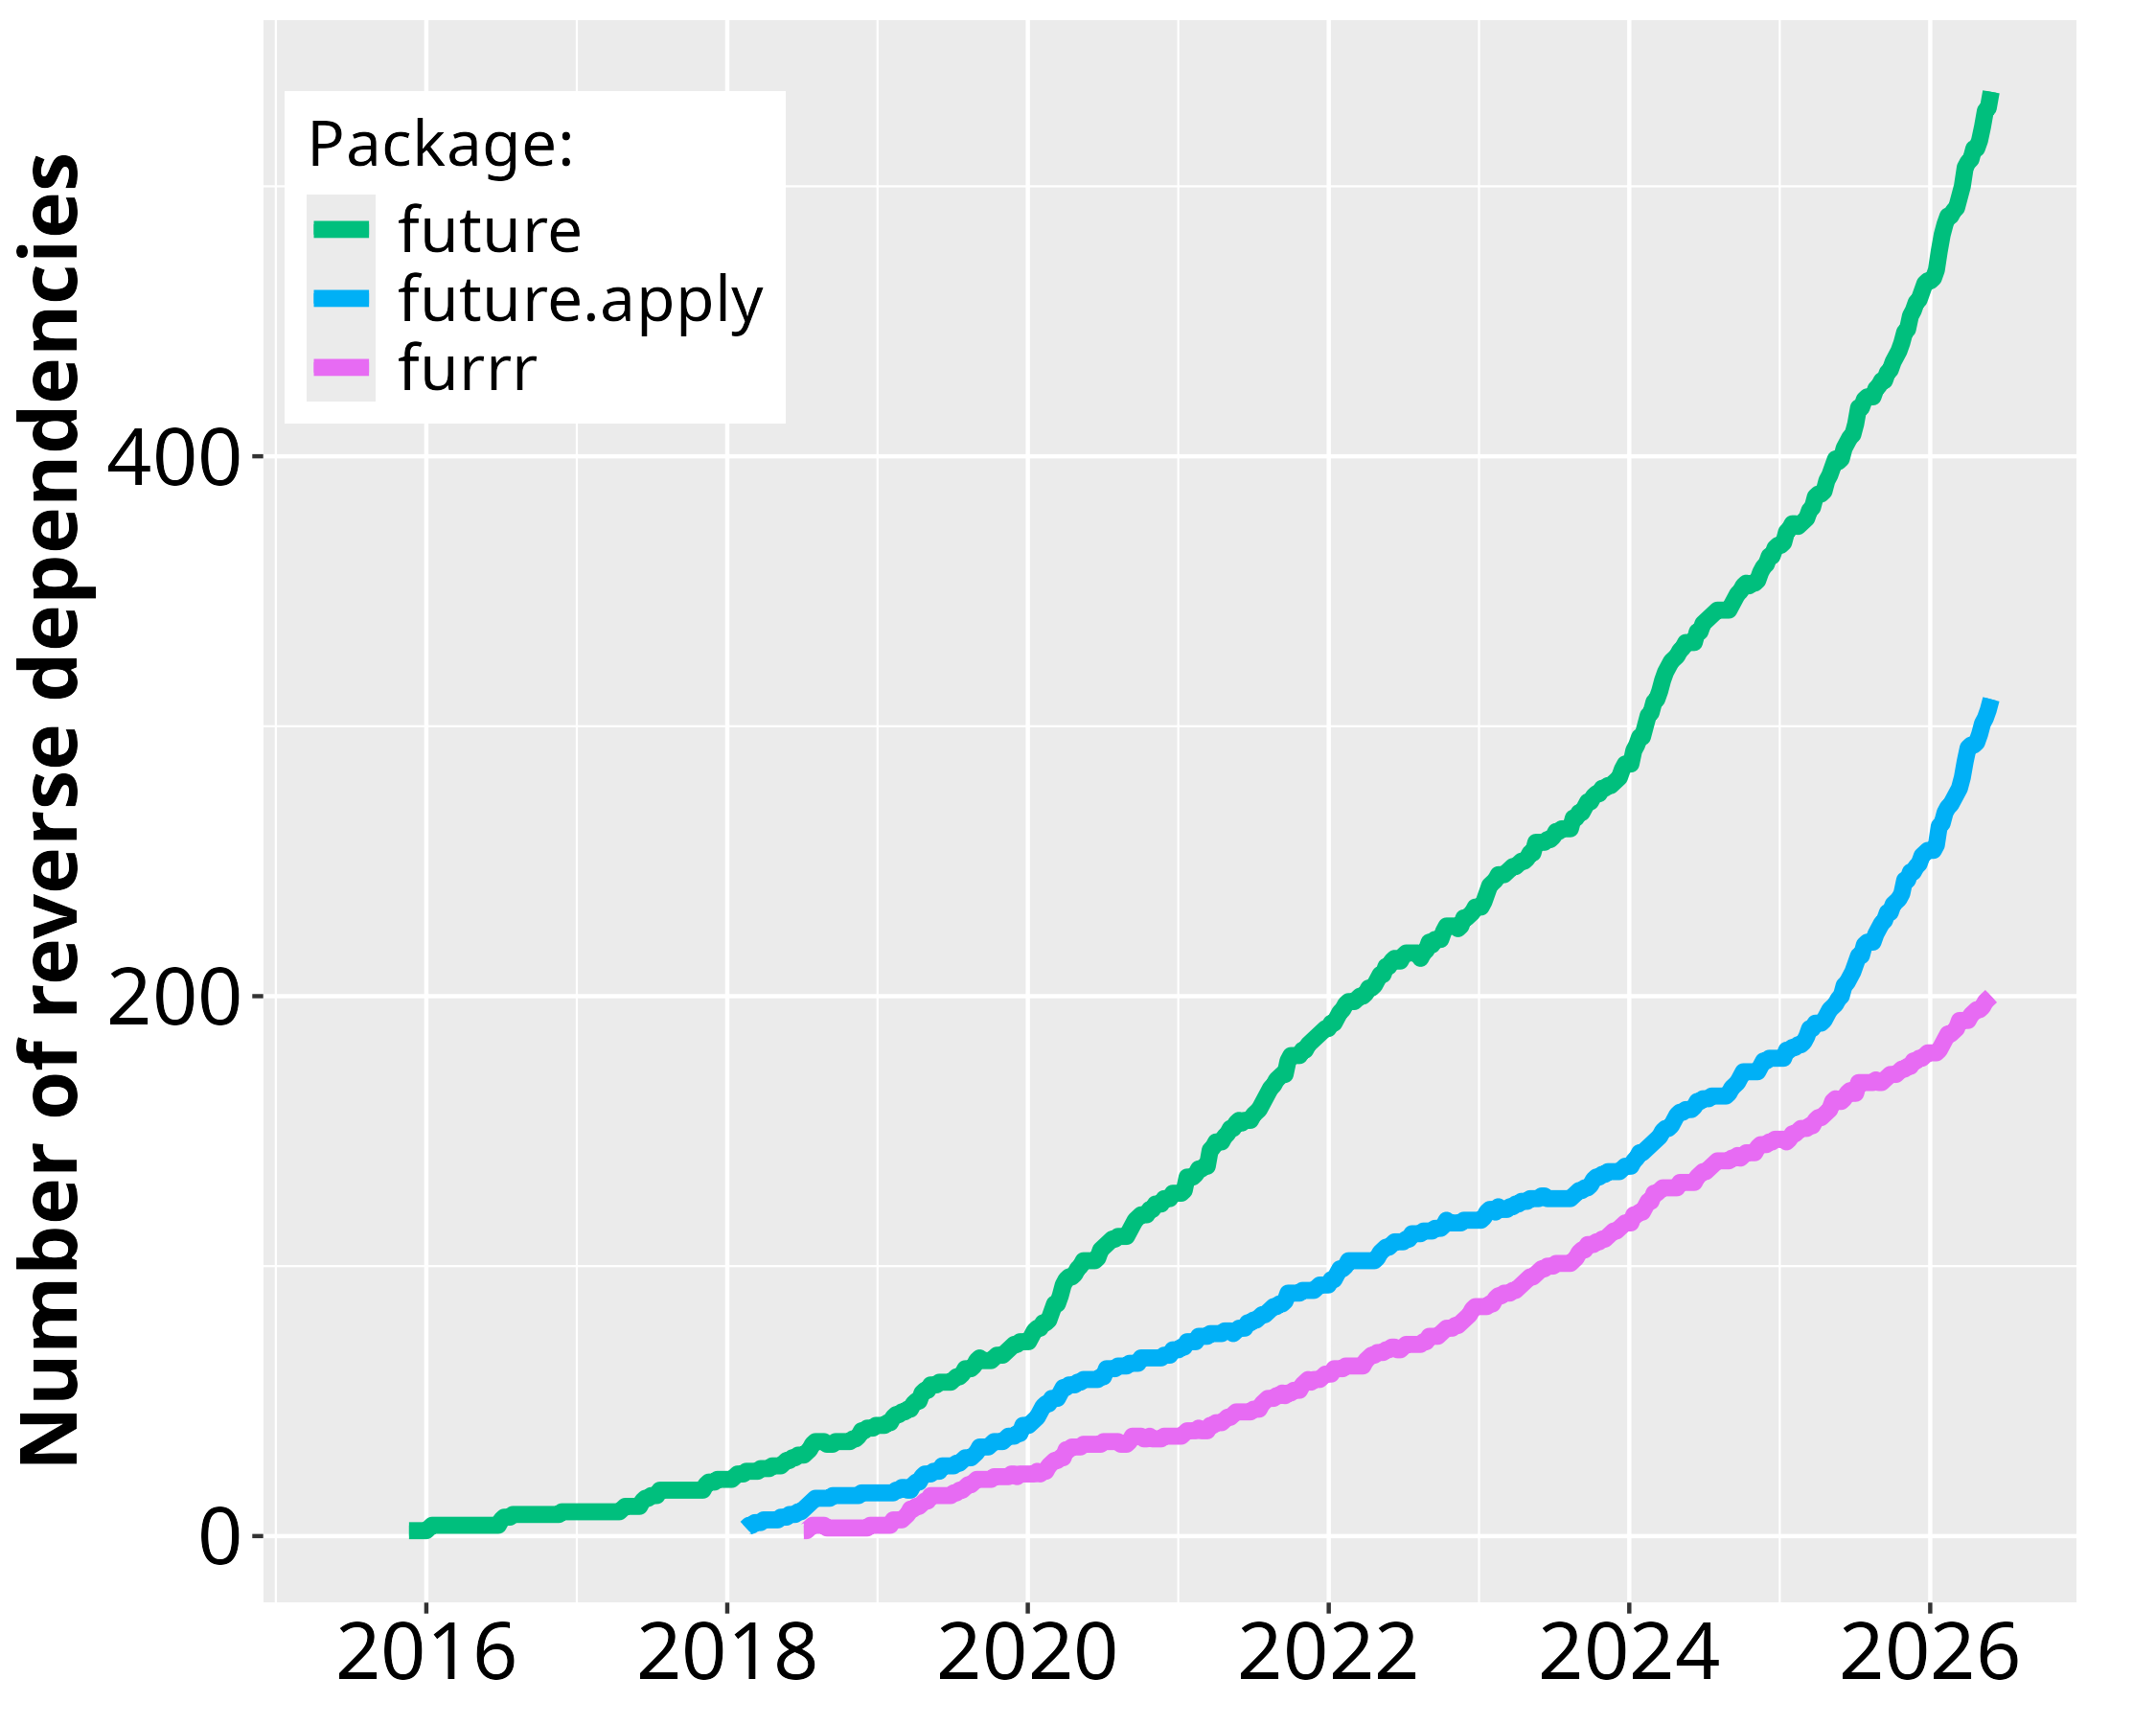
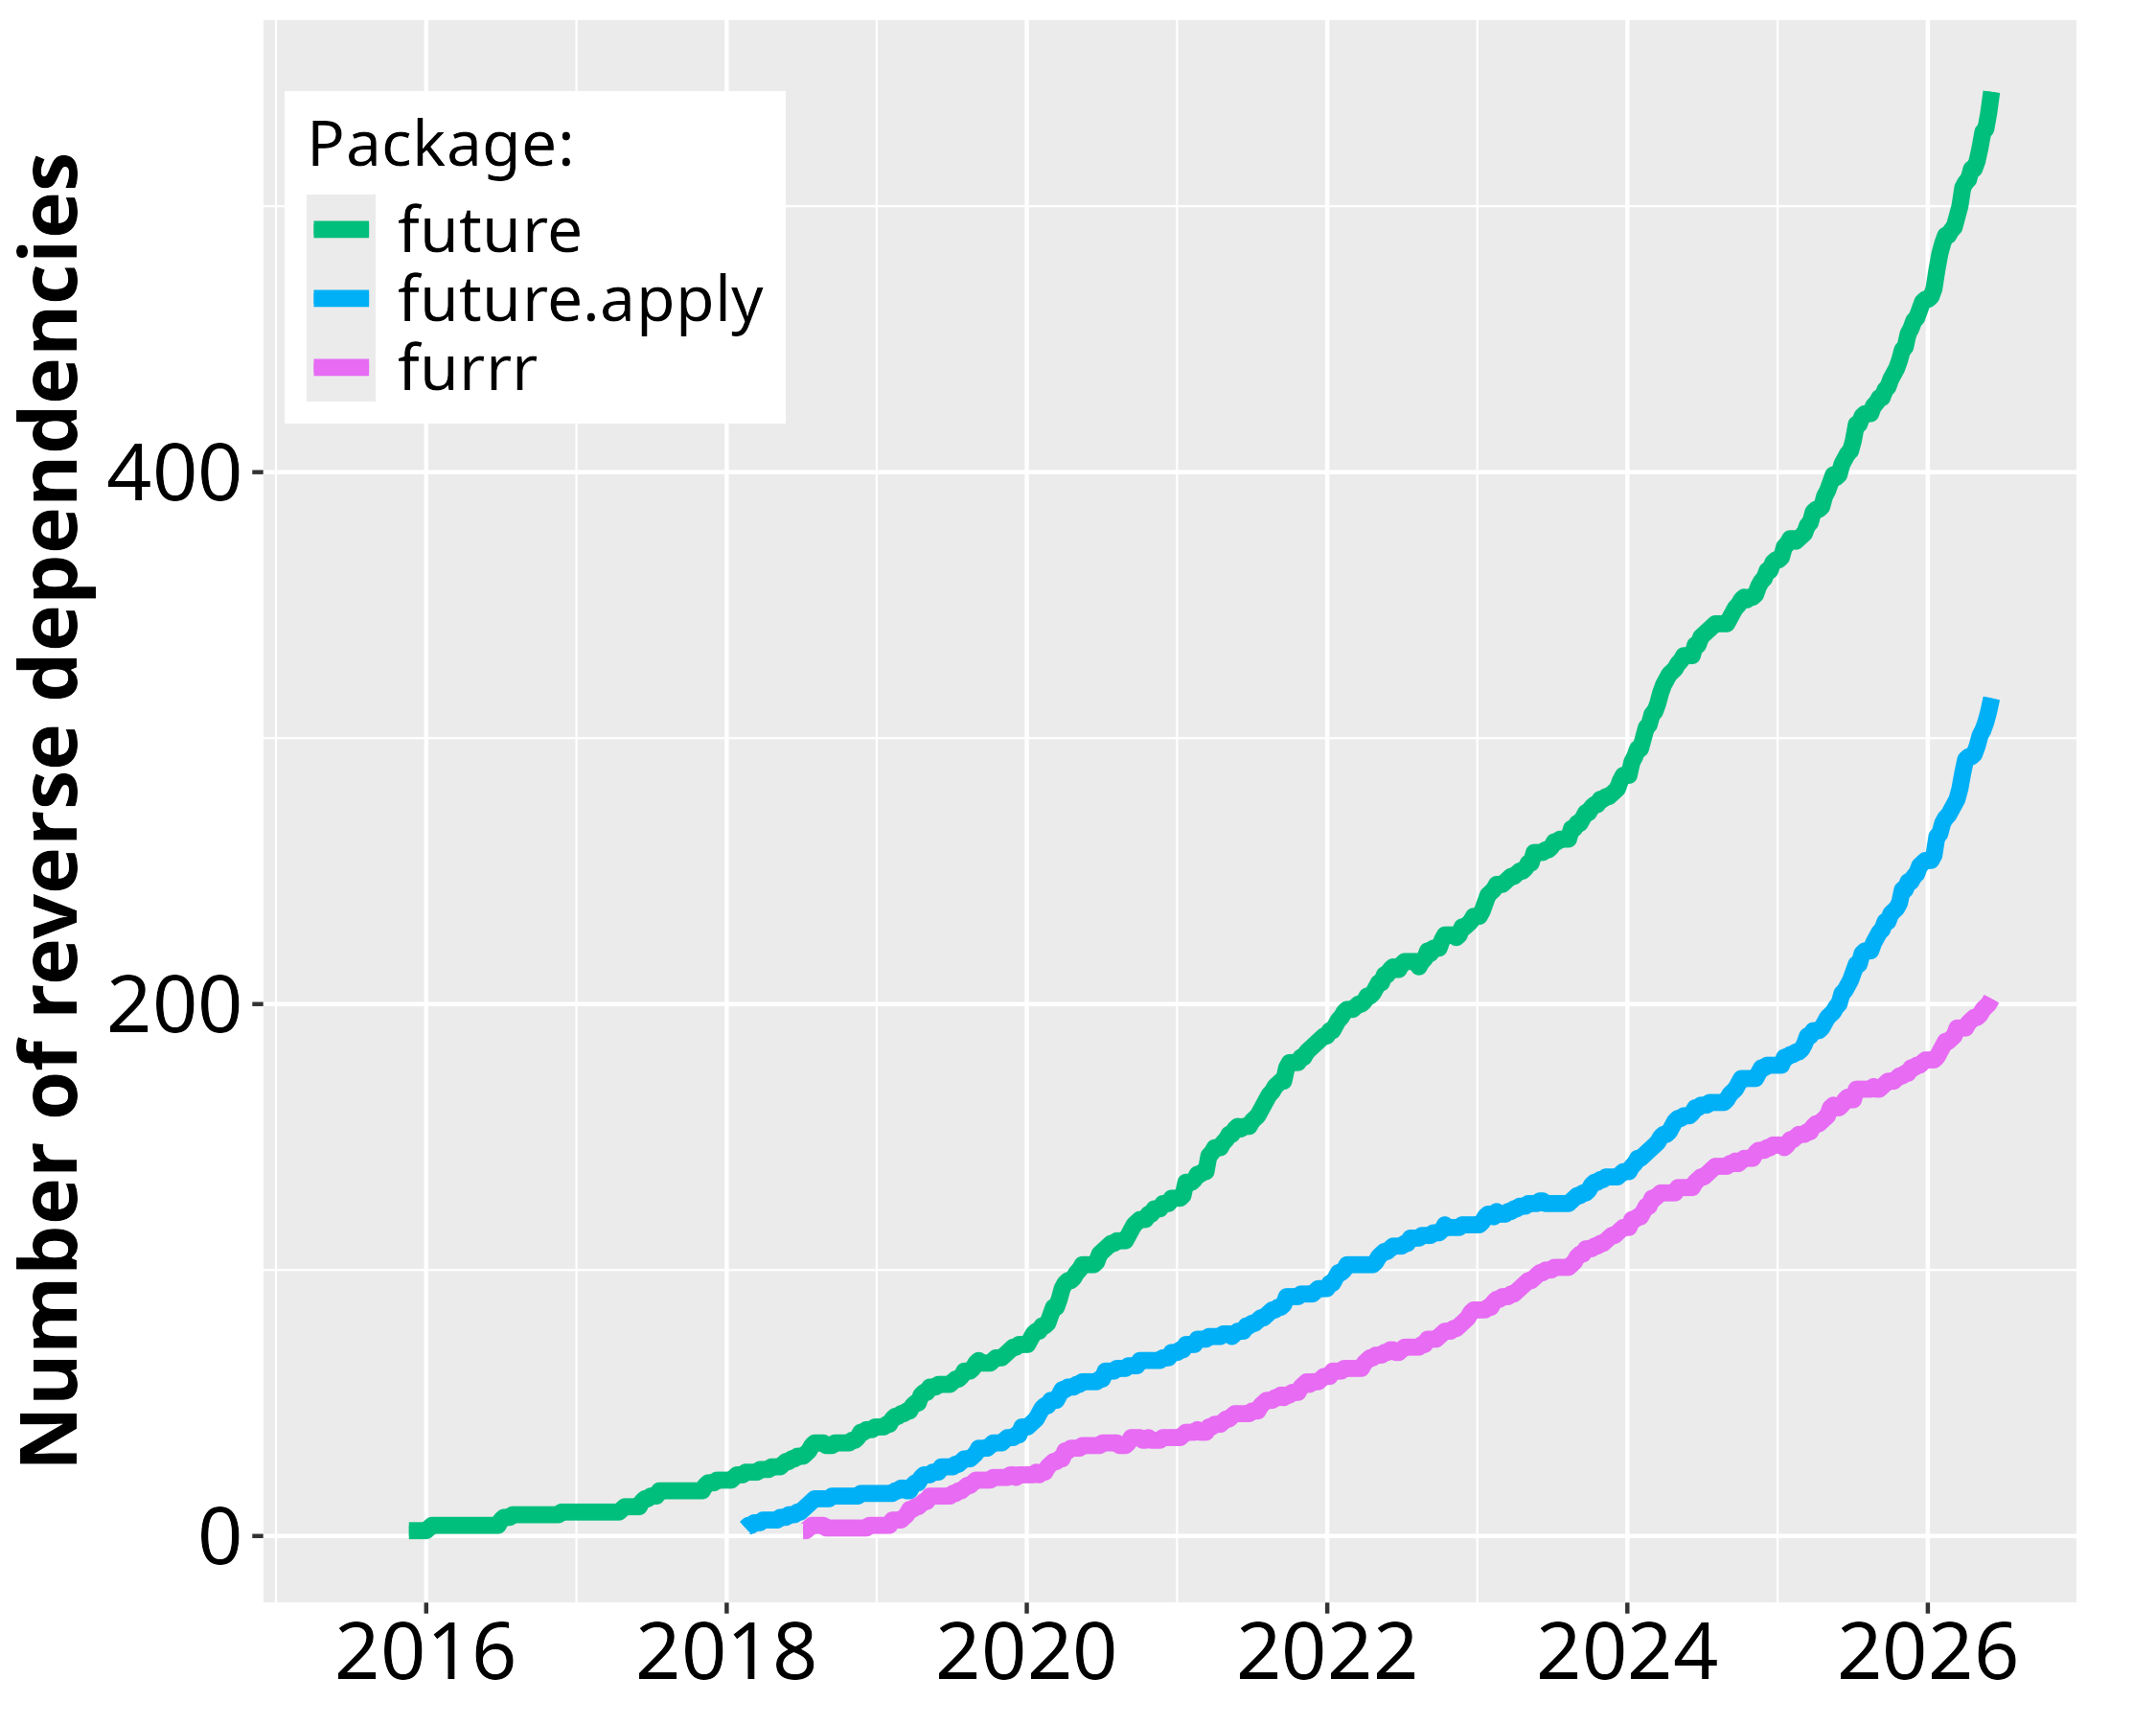
usage refresh

diff --git a/docs/usage.html b/docs/usage.html
@@ -558,7 +558,7 @@ gtag('config', 'G-SB3EQSD9FR', { 'anonymize_ip': true});
 </section>
 <section id="cran-statistics" class="level1">
 <h1>CRAN Statistics</h1>
-<p>Since the first CRAN release of <strong>future</strong> in June 2015, its uptake among end-users and package developers has grown steadily. During May 2026, <strong>future</strong> was among the top-0.6% most downloaded packages on CRAN (Figure 1) and there are ~500 packages (+30%/year) on CRAN that directly depend on it (Figure 2). For map-reduce parallelization packages <strong>future.apply</strong> (top-0.8% most downloaded) and <strong>furrr</strong> (top 1.3%), the corresponding number of packages are ~300 (+50%/year) and ~180 (+25%/year), respectively.</p>
+<p>Since the first CRAN release of <strong>future</strong> in June 2015, its uptake among end-users and package developers has grown steadily. As of June 2026, <strong>future</strong> is among the top-0.6% most downloaded packages on CRAN (Figure 1) and there are ~500 packages (+35%/year) on CRAN that directly depend on it (Figure 2). For map-reduce parallelization packages <strong>future.apply</strong> (top-0.8% most downloaded) and <strong>furrr</strong> (top 1.3%), the corresponding number of packages are ~300 (+55%/year) and ~180 (+25%/year), respectively.</p>
 <p>If we consider recursive dependencies too, that is, packages that needs (depends or imports) the <strong>future</strong> package either directly or indirectly via another package, then ~1,250 (5.2%) of all ~23,900 CRAN packages rely on the future framework for processing (June 2026). If we include soft (Suggests) dependencies as well, then ~90% of all CRAN packages depend on the future framework. Bioconductor, which has ~2,400 packages, show similar ratios.</p>
 <!--
 repos <- getOption("repos")